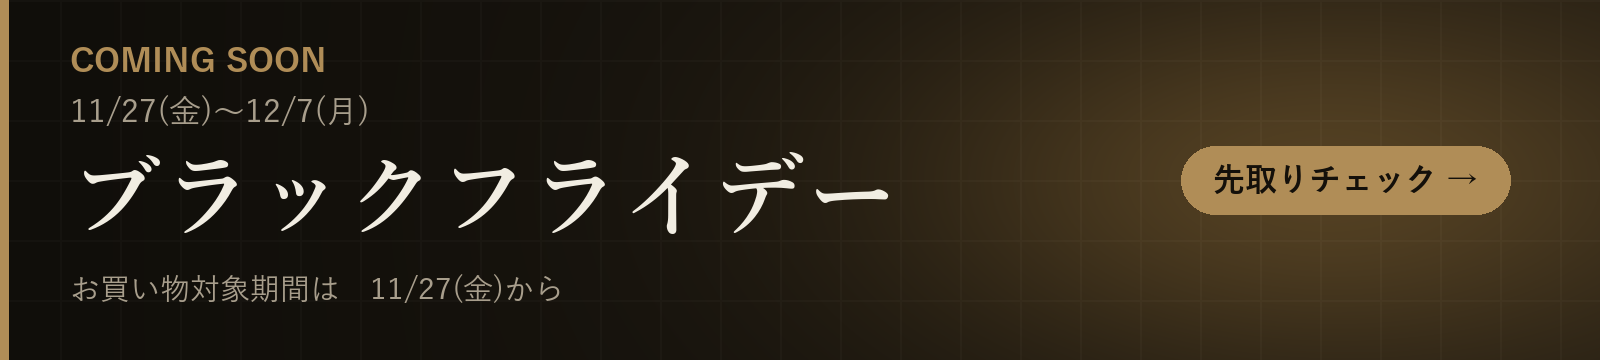
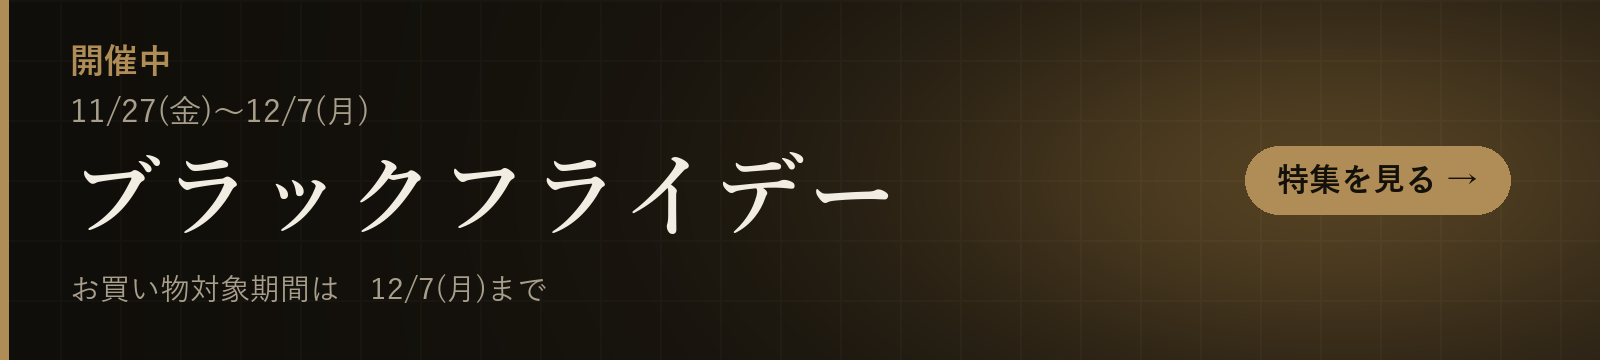
Black Friday: switch feature page to live phase

Changed region(s): [[0.7188, 0.3972, 0.9062, 0.6111], [0.0312, 0.1222, 0.2188, 0.2139], [0.2188, 0.7639, 0.3438, 0.8556]]

diff --git a/feature-black-friday-202611.html b/feature-black-friday-202611.html
@@ -5,7 +5,7 @@
 <script>(function(){try{var t=localStorage.getItem('gearnote-theme');if(t==='light'||t==='dark'){document.documentElement.setAttribute('data-theme',t);}}catch(e){}})();</script>
 <meta name="viewport" content="width=device-width, initial-scale=1.0">
 <title>Amazonブラックフライデー特集｜GEARNOTE</title>
-<meta name="description" content="Amazon「ブラックフライデー」2026のお買い物対象期間は、2026年11月27日(金)0:00〜12月7日(月)23:59（Amazonのキャンペーンページの案内）。過去の開催日、セール前にやっておく準備、ジャンル別のチェックスペックと、GEARNOTEが仕様でピックアップした家電・ガジェット・美容・日用品を紹介します。">
+<meta name="description" content="Amazon「ブラックフライデー」が開催中です（お買い物対象期間：2026年11月27日(金)0:00〜12月7日(月)23:59）。ジャンル別のチェックスペックと、GEARNOTEが仕様でピックアップした家電・ガジェット・美容・日用品を紹介します。">
 <meta name="robots" content="index, follow">
 <link rel="icon" type="image/svg+xml" href="favicon.svg">
 <link rel="icon" type="image/png" href="favicon-32.png">
@@ -19,14 +19,14 @@
 <meta property="og:type" content="website">
 <meta property="og:site_name" content="GEARNOTE">
 <meta property="og:title" content="Amazonブラックフライデー特集｜GEARNOTE">
-<meta property="og:description" content="Amazon「ブラックフライデー」2026のお買い物対象期間は、2026年11月27日(金)0:00〜12月7日(月)23:59（Amazonのキャンペーンページの案内）。過去の開催日、セール前にやっておく準備、ジャンル別のチェックスペックと、GEARNOTEが仕様でピックアップした家電・ガジェット・美容・日用品を紹介します。">
+<meta property="og:description" content="Amazon「ブラックフライデー」が開催中です（お買い物対象期間：2026年11月27日(金)0:00〜12月7日(月)23:59）。ジャンル別のチェックスペックと、GEARNOTEが仕様でピックアップした家電・ガジェット・美容・日用品を紹介します。">
 <meta property="og:url" content="https://gearnote.net/feature-black-friday-202611">
 <link rel="canonical" href="https://gearnote.net/feature-black-friday-202611">
 <link rel="alternate" type="application/rss+xml" title="GEARNOTE" href="https://gearnote.net/feed.xml">
 <meta property="og:image" content="https://gearnote.net/og-image.png">
 <meta name="twitter:card" content="summary_large_image">
 <meta name="twitter:title" content="Amazonブラックフライデー特集｜GEARNOTE">
-<meta name="twitter:description" content="Amazon「ブラックフライデー」2026のお買い物対象期間は、2026年11月27日(金)0:00〜12月7日(月)23:59（Amazonのキャンペーンページの案内）。過去の開催日、セール前にやっておく準備、ジャンル別のチェックスペックと、GEARNOTEが仕様でピックアップした家電・ガジェット・美容・日用品を紹介します。">
+<meta name="twitter:description" content="Amazon「ブラックフライデー」が開催中です（お買い物対象期間：2026年11月27日(金)0:00〜12月7日(月)23:59）。ジャンル別のチェックスペックと、GEARNOTEが仕様でピックアップした家電・ガジェット・美容・日用品を紹介します。">
 <meta name="twitter:image" content="https://gearnote.net/og-image.png">
 <link rel="preconnect" href="https://fonts.googleapis.com">
 <link href="https://fonts.googleapis.com/css2?family=Noto+Sans+JP:wght@400;500;700&family=Shippori+Mincho:wght@500;600;800&family=Cormorant+Garamond:wght@700&display=swap" rel="stylesheet">
@@ -63,9 +63,9 @@
   <div class="wrap">
     <div class="section-head" style="margin-bottom:16px;">
       <div>
-        <span class="tag">Coming Soon</span>
+        <span class="tag">開催中</span>
         <h1>Amazon「ブラックフライデー」特集<br>家電・ガジェット・美容 ピックアップ</h1>
-        <p class="desc">お買い物対象期間：2026年11月27日(金)0:00〜12月7日(月)23:59（2026年11月19日時点のAmazonのキャンペーンページの案内）<br>先行セール：11月27日(金)0:00〜11月29日(日)23:59／本セール：11月30日(月)0:00〜12月7日(月)23:59（2026年11月19日のAmazonの発表より）</p>
+        <p class="desc">お買い物対象期間：2026年11月27日(金)0:00〜12月7日(月)23:59（Amazonのキャンペーンページの案内より）<br>先行セール：11月27日(金)0:00〜11月29日(日)23:59／本セール：11月30日(月)0:00〜12月7日(月)23:59（2026年11月19日のAmazonの発表より）</p>
         <p class="pd-byline">執筆・確認：<a href="about#author">GEARNOTE運営（H＆C）</a></p>
         <p class="pr-notice" style="font-size:0.78rem;color:var(--text-muted,#8a8a8a);margin:4px 0 10px;line-height:1.6;">※ 当サイトはアフィリエイト広告（Amazonアソシエイト）を利用しています。リンク先の商品ページに広告リンクが含まれます。</p>
       </div>
@@ -73,8 +73,8 @@
 
     <div class="legal" style="margin-bottom:24px; padding-top:0; padding-bottom:0;">
 
-      <p style="display:inline-block; padding:6px 16px; border:1px solid var(--gold, #b08d57); border-radius:999px; font-weight:700; letter-spacing:.14em;">🔜 COMING SOON</p>
-      <p><strong>2026年のブラックフライデーのお買い物対象期間は、11月27日(金)0:00〜12月7日(月)23:59です</strong>（2026年11月19日時点のAmazonのキャンペーンページの案内）。対象商品や、期間中の各セールの開始日は、Amazonのページをご確認ください。内容が更新されたら、このページも更新します。</p>
+      <p style="display:inline-block; padding:6px 16px; border:1px solid var(--gold, #b08d57); border-radius:999px; font-weight:700; letter-spacing:.14em;">🔥 開催中</p>
+      <p><strong>ブラックフライデーのお買い物対象期間は、12月7日(月)23:59までです。</strong>セール対象かどうか、価格・ポイントの条件は、必ず各商品のAmazon商品ページと、Amazonのキャンペーンページでご確認ください。</p>
 
       <h2 style="margin-top:12px;">過去の開催日（Amazonの発表より）</h2>
       <ul>

diff --git a/category-kitchen.html b/category-kitchen.html
@@ -1741,18 +1741,18 @@
       <h2 class="pd-deep-heading"><span class="num">03</span>比較ページ（AとBの違い）から選ぶ</h2>
       <p>このカテゴリの商品どうしを、仕様表の数字で並べて比べたページです。気になる組み合わせから開けます。</p>
       <ul class="pos-list">
+        <li><a href="compare-delonghi-icona-vintage-kbov1240j-vs-tefal-justin-lock-ko5908">デロンギ アイコナ・ヴィンテージとティファール ジャスティン ロックの違い</a></li>
+        <li><a href="compare-hario-srms2024-vs-iwaki-k425-glass-mug">HARIO 耐熱スタッキングマグ SRMS-2024とiwaki Airグラス マグ K425の違い</a></li>
         <li><a href="compare-narumi-patia-23cm-vs-yamatsu-spazio-27cm">NARUMI パティア 23cm（41623-5962）とYAMATSU STANDARD スパツィオ 27cm皿 5枚セットの違い</a></li>
         <li><a href="compare-tanita-td384-vs-temppro-tm04">タニタ でか見えタイマー TD-384とTempPro キッチンタイマー TM04の違い</a></li>
         <li><a href="compare-thermos-jdu351-vs-atlas-abib-ebk">サーモス 保冷缶ホルダー（JDU-351 SL）とアトラス ペットボトルホルダー（ABIB-EBK）の違い</a></li>
         <li><a href="compare-thermos-jow-600-vs-kinto-water-bottle-500ml">サーモス 真空断熱ケータイマグ JOW-600とKINTO ウォーターボトル 500mlの違い</a></li>
         <li><a href="compare-tiger-mta-h120wh-vs-zojirushi-su-aa48">タイガー ステンレスボトル MTA-H120WH（1.2L）と象印 スクリューマグ SU-AA48（480ml）の違い</a></li>
-        <li><a href="compare-tiger-ptq-a100-vs-zojirushi-ck-ax10">タイガー PTQ-A100HSと象印 CK-AX10の違い</a></li>
         <li><a href="compare-tiger-pwr-t120wf-vs-zojirushi-sr-cc22">タイガー ステンレスポット PWR-T120WFと象印 ステンレスエアーポット SR-CC22の違い</a></li>
         <li><a href="compare-yamazaki-tower-sink-rack-3865-vs-iris-ssr200">山崎実業 tower 伸縮収納棚（3865）とアイリスオーヤマ シンク下引き出しラック（SSR-200）の違い</a></li>
         <li><a href="compare-bodum-pilatus-vs-canteen-doublewall-glass">BODUM PILATUS（350ml）とCANTEEN（400ml）のダブルウォールグラスの違い</a></li>
         <li><a href="compare-captainstag-ug3032-skillet-vs-ug3040-cocotte">キャプテンスタッグ 両手スキレット UG-3032とココット ダッチオーブン UG-3040の違い</a></li>
         <li><a href="compare-hario-rpln14-vs-marna-k787bk-water-pitcher">HARIO 冷蔵庫ポット スリムN RPLN-14とマーナ ウォーターピッチャー1L K787BKの違い</a></li>
-        <li><a href="compare-hario-srms2024-vs-iwaki-k425-glass-mug">HARIO 耐熱スタッキングマグ SRMS-2024とiwaki Airグラス マグ K425の違い</a></li>
       </ul>
       <p><a href="compare-index">比較ページの一覧（全441本）を見る</a></p>
     </div>

diff --git a/features.html b/features.html
@@ -93,9 +93,9 @@
     <!-- FEATURE CARDS: append a new <div class="cta-box"> here (or add to features/hub.json and rebuild with --hub) -->
     <div class="legal" style="max-width:none;margin:0;padding:0;">
       <div class="cta-box" style="text-align:left; padding:22px 26px; margin:0 0 16px;">
-        <p style="margin:0 0 6px;"><span class="tag" style="">Coming Soon</span> <span style="color:var(--text-muted);font-size:0.85rem;">2026年11月27日(金)〜12月7日(月)</span></p>
+        <p style="margin:0 0 6px;"><span class="tag" style="">開催中</span> <span style="color:var(--text-muted);font-size:0.85rem;">2026年11月27日(金)〜12月7日(月)</span></p>
         <h2 style="font-size:1.15rem;margin:0 0 8px;"><a href="feature-black-friday-202611">Amazonブラックフライデー特集</a></h2>
-        <p style="margin:0 0 12px;color:var(--text-muted);font-size:0.92rem;">Amazonのブラックフライデーに向けて、ガジェット・家電・美容・日用品を、仕様と選び方の目安つきでピックアップした特集です。お買い物対象期間はAmazonのキャンペーンページの案内にもとづきます。</p>
+        <p style="margin:0 0 12px;color:var(--text-muted);font-size:0.92rem;">Amazonブラックフライデーのお買い物対象期間中です。ガジェット・家電・美容・日用品を、仕様と選び方の目安つきでピックアップした特集です。対象商品や条件はAmazonの案内をご確認ください。</p>
         <a href="feature-black-friday-202611" class="btn btn-ghost btn-sm" style="display:inline-flex;width:auto;">特集を見る</a>
       </div>
       <div class="cta-box" style="text-align:left; padding:22px 26px; margin:0 0 16px; opacity:0.85;">

diff --git a/category-beauty.html b/category-beauty.html
@@ -4547,8 +4547,8 @@
         <li><a href="compare-panasonic-doltz-dj42-vs-dj55">パナソニック ジェットウォッシャー ドルツ EW-DJ42-WとEW-DJ55-Wの違い</a></li>
         <li><a href="compare-panasonic-eh-hn50-vs-eh-hs9j">パナソニック ストレートヘアアイロン ナノケア EH-HN50-WとEH-HS9J-Kの違い</a></li>
         <li><a href="compare-panasonic-mayu-gm30-vs-ferrie-wf63">パナソニック マユ・フェイスシェーバー ER-GM30とフェイスシェーバー フェリエ ES-WF63の違い</a></li>
-        <li><a href="compare-philips-sonicare-2100-vs-3100">フィリップス ソニッケアー 2100シリーズと3100シリーズの違い</a></li>
         <li><a href="compare-refa-heart-dryer-aira-vs-beautech-dryer-se">ReFaのヘアドライヤー HEART DRYER AiraとBEAUTECH DRYER SEの違い</a></li>
+        <li><a href="compare-tanita-bc705n-vs-omron-karada-scan-krd-603t2">タニタ 体組成計 BC-705Nとオムロン カラダスキャン KRD-603T2-BKの違い</a></li>
         <li><a href="compare-terumo-et-c232p01-vs-omron-mc688-thermometer">テルモ 電子体温計 ET-C232P01とオムロン けんおんくん MC-688の違い</a></li>
         <li><a href="compare-tescom-hd2400-vs-salonia-speedy-ion-dryer">テスコム Speedom TEC-HD2400-KとSALONIA スピーディーイオンドライヤー SAL25220XGの違い</a></li>
         <li><a href="compare-atex-ax-hp117gr-vs-ax-hj360gr">アテックス ルルド プロもみ AX-HP117grとふくらはぎゅ AX-HJ360grの違い</a></li>

diff --git a/category-daily.html b/category-daily.html
@@ -2692,7 +2692,6 @@
       <ul class="pos-list">
         <li><a href="compare-ohe-body-brush-vs-muji-shower-brush">オーエ ボディブラシ（ヒノキ・馬毛）と無印良品 ポリプロピレンシャワーブラシの違い</a></li>
         <li><a href="compare-ohe-body-towel-vs-marna-shabonball">オーエ ボディタオル（ふつう・グレー）とマーナ 背中も洗えるシャボンボール（B873B）の違い</a></li>
-        <li><a href="compare-tanita-bc705n-vs-omron-karada-scan-krd-603t2">タニタ 体組成計 BC-705Nとオムロン カラダスキャン KRD-603T2-BKの違い</a></li>
         <li><a href="compare-3m-bathshine-brush-b-492j-vs-azuma-brushspo-g-bt751">3M スコッチブライト バスシャイン ブラシ（B-492J）とアズマ工業 ブラシスポG（BT751）の違い</a></li>
         <li><a href="compare-elecom-power-strip-t-st02n-vs-t-ktr05wh">エレコム 電源タップ T-ST02N-2320WHとT-KTR05WH（3個口）の違い</a></li>
         <li><a href="compare-mitsubishi-manganese-vs-panasonic-alkaline-aa">三菱電機のマンガン乾電池 単3形とパナソニックのアルカリ乾電池 単3形の違い</a></li>

diff --git a/category-care.html b/category-care.html
@@ -1197,6 +1197,7 @@
       <p>このカテゴリの商品どうしを、仕様表の数字で並べて比べたページです。気になる組み合わせから開けます。</p>
       <ul class="pos-list">
         <li><a href="compare-aron-karupittan-vs-stainless-bathtub-stand">アロン化成 安寿 かるぴったん 標準タイプとステンレス製浴槽台R 10cm（536-440）の違い</a></li>
+        <li><a href="compare-panasonic-pokkaretto-ds-fp600-vs-yamazen-dsf-s123">パナソニック ポッカレット DS-FP600と山善 DSF-S123の違い</a></li>
         <li><a href="compare-tacaof-cipur-sicp02-vs-boxt-sist02">シルバーカー シプール SICP02とボクスト SIST02の違い</a></li>
         <li><a href="compare-tacaof-eon12-folding-vs-ep03-telescopic-stick">テイコブ 折りたたみ式伸縮ステッキ EON12とテイコブ 伸縮ステッキ EP03の違い</a></li>
         <li><a href="compare-takeko-hugo-vs-taketora-bamboo-slimneck-stick">竹虎 ヒューゴステッキ 104752と竹虎 バンブーステッキ 細首タイプの違い</a></li>

diff --git a/category-home.html b/category-home.html
@@ -5142,7 +5142,7 @@
         <li><a href="compare-maruka-mini-yutanpo-vs-a-ace-2-5l">マルカ ミニゆたA（600ml）と湯たんぽA（2.5L）の違い</a></li>
         <li><a href="compare-ohm-book-light-nit-byl2tdw-vs-elecom-ring-light-de-l01bk">オーム電機 充電式ブックライト NIT-BYL2TDWとエレコム クリップ式リングライト DE-L01BKの違い</a></li>
         <li><a href="compare-ohm-ls-b400jw-vs-elpa-hlh2206">オーム電機 ソーラー式LEDセンサーウォールライト LS-B400JW-SD2とエルパ もてなしライト HLH-2206の違い</a></li>
-        <li><a href="compare-panasonic-pokkaretto-ds-fp600-vs-yamazen-dsf-s123">パナソニック ポッカレット DS-FP600と山善 DSF-S123の違い</a></li>
+        <li><a href="compare-rhythm-iroria-8rz197sr02-vs-purelight-maroon-8mya23sr13">リズム イロリア（8RZ197SR02）とピュアライトマーロン（8MYA23SR13）の違い</a></li>
       </ul>
       <p><a href="compare-index">比較ページの一覧（全441本）を見る</a></p>
     </div>

diff --git a/category-sports.html b/category-sports.html
@@ -1682,6 +1682,7 @@
       <p>このカテゴリの商品どうしを、仕様表の数字で並べて比べたページです。気になる組み合わせから開けます。</p>
       <ul class="pos-list">
         <li><a href="compare-shimano-pitbull-4-vs-hardbull-8plus">シマノ ピットブル 4とハードブル 8+の違い</a></li>
+        <li><a href="compare-casio-str-300j-vs-stw-1000">カシオ STR-300JとSTW-1000の違い</a></li>
         <li><a href="compare-coleman-fire-disc-solo-vs-bundok-lotus-plus">コールマン ファイアーディスクソロとBUNDOK Lotus+（BD-467）の違い</a></li>
         <li><a href="compare-grong-pilates-ball-25cm-vs-gymnic-soft-ball-23cm">グロングのピラティスボール25cmとダンノ ギムニク ソフトギムニク23cmの違い</a></li>
         <li><a href="compare-meiho-bucket-mouse-bm5000-vs-versus-vs7010">明邦（MEIHO）のバケットマウス BM-5000とVERSUS VS-7010の違い</a></li>

diff --git a/category-fashion.html b/category-fashion.html
@@ -2679,7 +2679,6 @@
         <li><a href="compare-casio-mq-24-vs-a158wa-1jh">カシオ コレクション MQ-24-7B2LLJHとA158WA-1JHの違い</a></li>
         <li><a href="compare-qq-e04a-vs-citizen-bm8180">Q＆Q E04A-001VKとシチズン BM8180-62Eの違い</a></li>
         <li><a href="compare-qq-md06-305-vs-vs18-001">シチズン Q＆Q MD06-305とVS18-001の違い</a></li>
-        <li><a href="compare-casio-str-300j-vs-stw-1000">カシオ STR-300JとSTW-1000の違い</a></li>
         <li><a href="compare-gshock-dw-5600ubb-vs-gw-m5610u-vs-ga-2100">G-SHOCK DW-5600UBB・GW-M5610U・GA-2100の違い</a></li>
         <li><a href="compare-porter-capsule-wallet-vs-dill-wallet-s">PORTER カプセル ウォレットとディル 折財布Sの違い</a></li>
         <li><a href="compare-porter-current-keycase-vs-tactical-keycase">PORTER カレント キーケースとタクティカル キーケースの違い</a></li>

diff --git a/index.html b/index.html
@@ -103,7 +103,7 @@
   <a href="feature-black-friday-202611" class="event-banner" style="margin-bottom:14px;">
     <picture>
       <source media="(max-width: 760px)" srcset="card-black-friday-202611.png">
-      <img src="card-black-friday-wide-202611.png" alt="Amazonブラックフライデー特集｜お買い物対象期間は11/27(金)から12/7(月)まで（Amazonの案内）" loading="eager">
+      <img src="card-black-friday-wide-202611.png" alt="開催中｜Amazonブラックフライデー特集（お買い物対象期間は11/27(金)0:00から12/7(月)23:59まで）" loading="eager">
     </picture>
   </a>
   <div class="event-banner-row event-banner-row-2">
